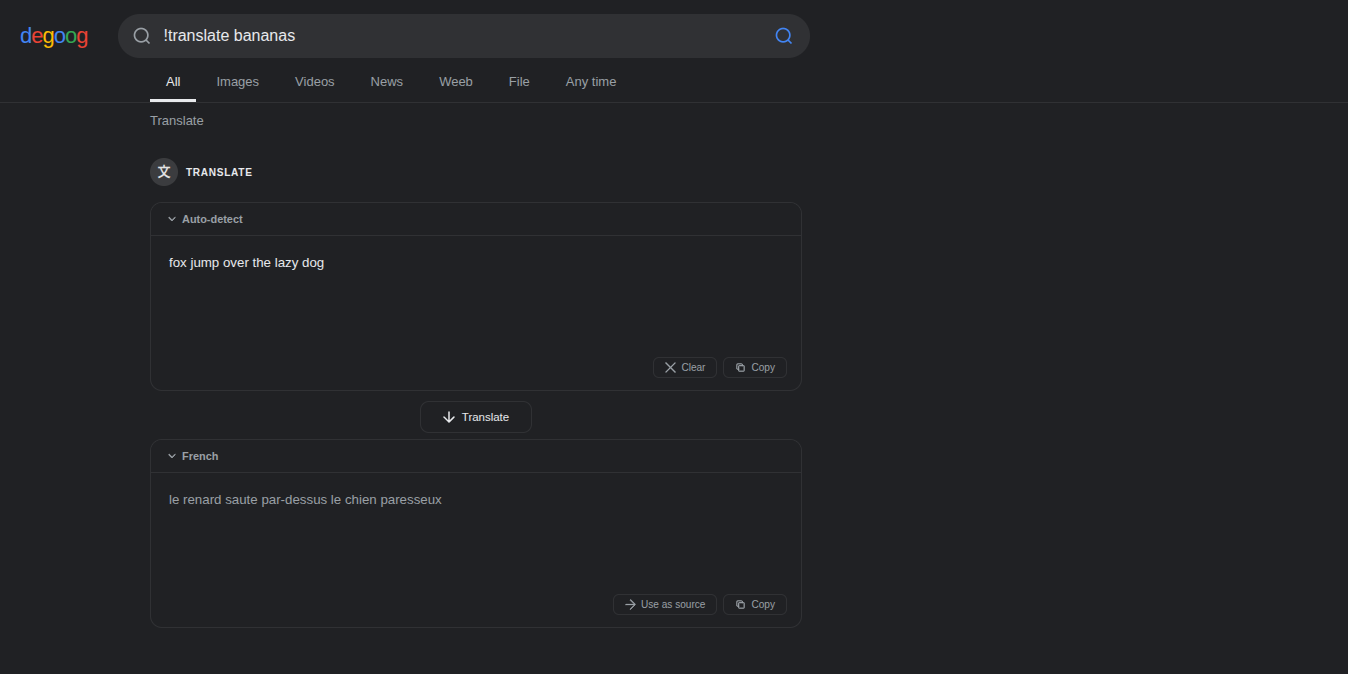
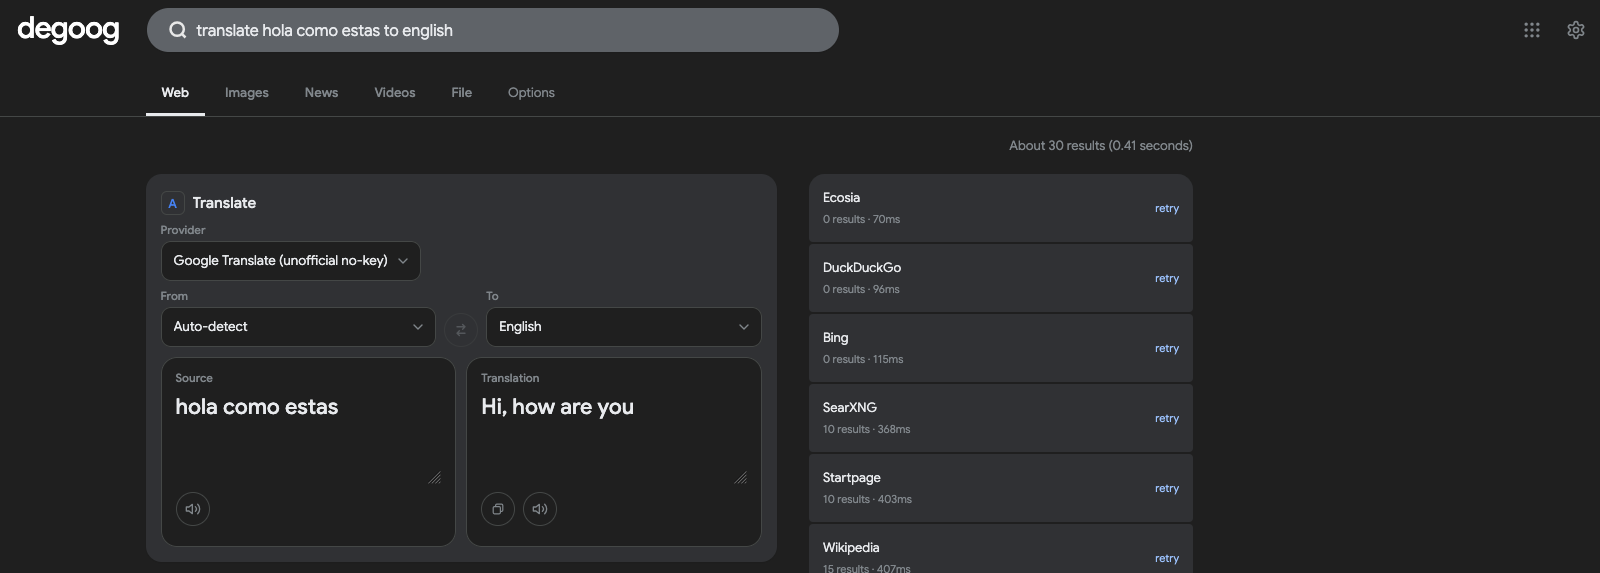
fix(search-history): keep handlers through page swaps

diff --git a/plugins/search-history/script.js b/plugins/search-history/script.js
@@ -152,132 +152,123 @@ function appendHistory(entry) {
   }
 }
 
-function bindInputFocus(input, dropdown) {
-  if (!input || !dropdown) return;
-  input.addEventListener("focus", () => {
+function getHistoryInput(target) {
+  if (!(target instanceof HTMLElement)) return null;
+  if (target.id === "search-input" || target.id === "results-search-input") {
+    return target;
+  }
+  return null;
+}
+
+function getDropdownForInput(input) {
+  if (!input) return null;
+  if (input.id === "search-input") {
+    return document.getElementById("ac-dropdown-home");
+  }
+  if (input.id === "results-search-input") {
+    return document.getElementById("ac-dropdown-results");
+  }
+  return null;
+}
+
+function submitHistoryInput(input, dropdown) {
+  dropdown.style.display = "none";
+  if (dropdown.parentElement) {
+    dropdown.parentElement.classList.remove("ac-open");
+  }
+  const form = input.closest("form");
+  if (form) {
+    form.requestSubmit
+      ? form.requestSubmit()
+      : form.dispatchEvent(new Event("submit", { cancelable: true }));
+    return;
+  }
+  const resultsBtn = document.getElementById("results-search-btn");
+  if (resultsBtn) resultsBtn.click();
+}
+
+function useHighlightedHistory(input, dropdown, event) {
+  if (!dropdown || dropdown.style.display === "none" || !dropdown.offsetParent) {
+    return false;
+  }
+  // degoog highlights AC items with an inline background or a class; check
+  // for the most common indicators that a history row is "active".
+  const highlighted = dropdown.querySelector(
+    ".ac-item--history.active, .ac-item--history.selected, .ac-item--history[aria-selected=\"true\"], .ac-item--history:hover"
+  );
+  if (!highlighted) return false;
+  const entry = highlighted.dataset.entry;
+  if (!entry) return false;
+  event.preventDefault();
+  event.stopPropagation();
+  input.value = entry;
+  submitHistoryInput(input, dropdown);
+  return true;
+}
+
+let initialized = false;
+
+function initSearchHistory() {
+  if (initialized) return;
+  initialized = true;
+
+  document.addEventListener("focusin", (e) => {
+    const input = getHistoryInput(e.target);
+    const dropdown = getDropdownForInput(input);
+    if (!input || !dropdown) return;
     paintCachedHistoryIfAny(input, dropdown);
     fetchAndShowHistory(input, dropdown);
   });
-  // When the field is cleared while focused (e.g. backspace), show history without blur/refocus.
-  input.addEventListener("input", () => {
-    if (input.value.trim() === "") {
-      paintCachedHistoryIfAny(input, dropdown);
-      fetchAndShowHistory(input, dropdown);
-    }
-  });
-  // Arrow-key navigation highlights history items but doesn't update the input.
-  // Intercept Enter to search the highlighted entry.
-  input.addEventListener("keydown", (e) => {
-    if (e.key !== "Enter") return;
-    if (dropdown.style.display === "none" || !dropdown.offsetParent) return;
-    // degoog highlights AC items with an inline background or a class; check
-    // for the most common indicators that a history row is "active".
-    const highlighted = dropdown.querySelector(
-      ".ac-item--history.active, .ac-item--history.selected, .ac-item--history[aria-selected=\"true\"], .ac-item--history:hover"
-    );
-    if (!highlighted) return;
-    const entry = highlighted.dataset.entry;
-    if (!entry) return;
-    e.preventDefault();
-    e.stopPropagation();
-    input.value = entry;
-    dropdown.style.display = "none";
-    if (dropdown.parentElement) {
-      dropdown.parentElement.classList.remove("ac-open");
-    }
-    const form = input.closest("form");
-    if (form) {
-      form.requestSubmit
-        ? form.requestSubmit()
-        : form.dispatchEvent(new Event("submit", { cancelable: true }));
-      return;
-    }
-    const resultsBtn = document.getElementById("results-search-btn");
-    if (resultsBtn) resultsBtn.click();
-  });
-}
 
-function bindHomeForm(form, input) {
-  if (!form || !input) return;
-  // Use capture so we fire before degoog's own submit handler that
-  // calls preventDefault() and navigates via window.location.href.
-  form.addEventListener(
+  // When the field is cleared while focused (e.g. backspace), show history without blur/refocus.
+  document.addEventListener("input", (e) => {
+    const input = getHistoryInput(e.target);
+    const dropdown = getDropdownForInput(input);
+    if (!input || !dropdown || input.value.trim() !== "") return;
+    paintCachedHistoryIfAny(input, dropdown);
+    fetchAndShowHistory(input, dropdown);
+  });
+
+  document.addEventListener(
     "submit",
-    () => {
-      appendHistory(input.value);
+    (e) => {
+      const target = e.target;
+      if (!(target instanceof HTMLElement) || target.id !== "search-form-home") return;
+      const input = document.getElementById("search-input");
+      if (input) appendHistory(input.value);
     },
     true,
   );
-}
 
-function bindResultsControls(input, btn) {
-  if (!input) return;
-  if (btn) {
-    btn.addEventListener(
-      "click",
-      () => {
-        appendHistory(input.value);
-      },
-      true,
-    );
-  }
-  input.addEventListener(
+  document.addEventListener(
+    "click",
+    (e) => {
+      const target = e.target;
+      if (!(target instanceof HTMLElement) || !target.closest("#results-search-btn")) return;
+      const input = document.getElementById("results-search-input");
+      if (input) appendHistory(input.value);
+    },
+    true,
+  );
+
+  document.addEventListener(
     "keydown",
     (e) => {
-      if (e.key === "Enter") appendHistory(input.value);
+      if (e.key !== "Enter") return;
+      const input = getHistoryInput(e.target);
+      const dropdown = getDropdownForInput(input);
+      if (!input) return;
+      if (useHighlightedHistory(input, dropdown, e)) return;
+      if (input.id === "results-search-input") appendHistory(input.value);
     },
     true,
   );
-}
-
-let bound = false;
-
-function initSearchHistory() {
-  if (bound) return;
-
-  const searchInput = document.getElementById("search-input");
-  const resultsInput = document.getElementById("results-search-input");
-  const dropdownHome = document.getElementById("ac-dropdown-home");
-  const dropdownResults = document.getElementById("ac-dropdown-results");
-  const formHome = document.getElementById("search-form-home");
-  const resultsBtn = document.getElementById("results-search-btn");
-
-  // Each page (home vs results) only renders ONE of these input pairs.
-  // Bail only when neither is present — otherwise attach to whichever
-  // side is available so entries get persisted on either page.
-  if (!searchInput && !resultsInput) return;
-
-  bound = true;
-
-  bindInputFocus(searchInput, dropdownHome);
-  bindInputFocus(resultsInput, dropdownResults);
-
-  bindHomeForm(formHome, searchInput);
-  bindResultsControls(resultsInput, resultsBtn);
 
   prefetchHistoryList();
 }
 
-function tryInit() {
-  initSearchHistory();
-  if (bound) return;
-  // degoog renders page templates client-side (renderPageTemplates),
-  // so the search inputs may appear shortly after DOMContentLoaded.
-  // Observe and retry until we've bound once.
-  const observer = new MutationObserver(() => {
-    initSearchHistory();
-    if (bound) observer.disconnect();
-  });
-  observer.observe(document.documentElement, {
-    childList: true,
-    subtree: true,
-  });
-  // Safety net: stop observing after 10s regardless.
-  setTimeout(() => observer.disconnect(), 10000);
-}
-
 if (document.readyState === "loading") {
-  document.addEventListener("DOMContentLoaded", tryInit);
+  document.addEventListener("DOMContentLoaded", initSearchHistory);
 } else {
-  tryInit();
+  initSearchHistory();
 }